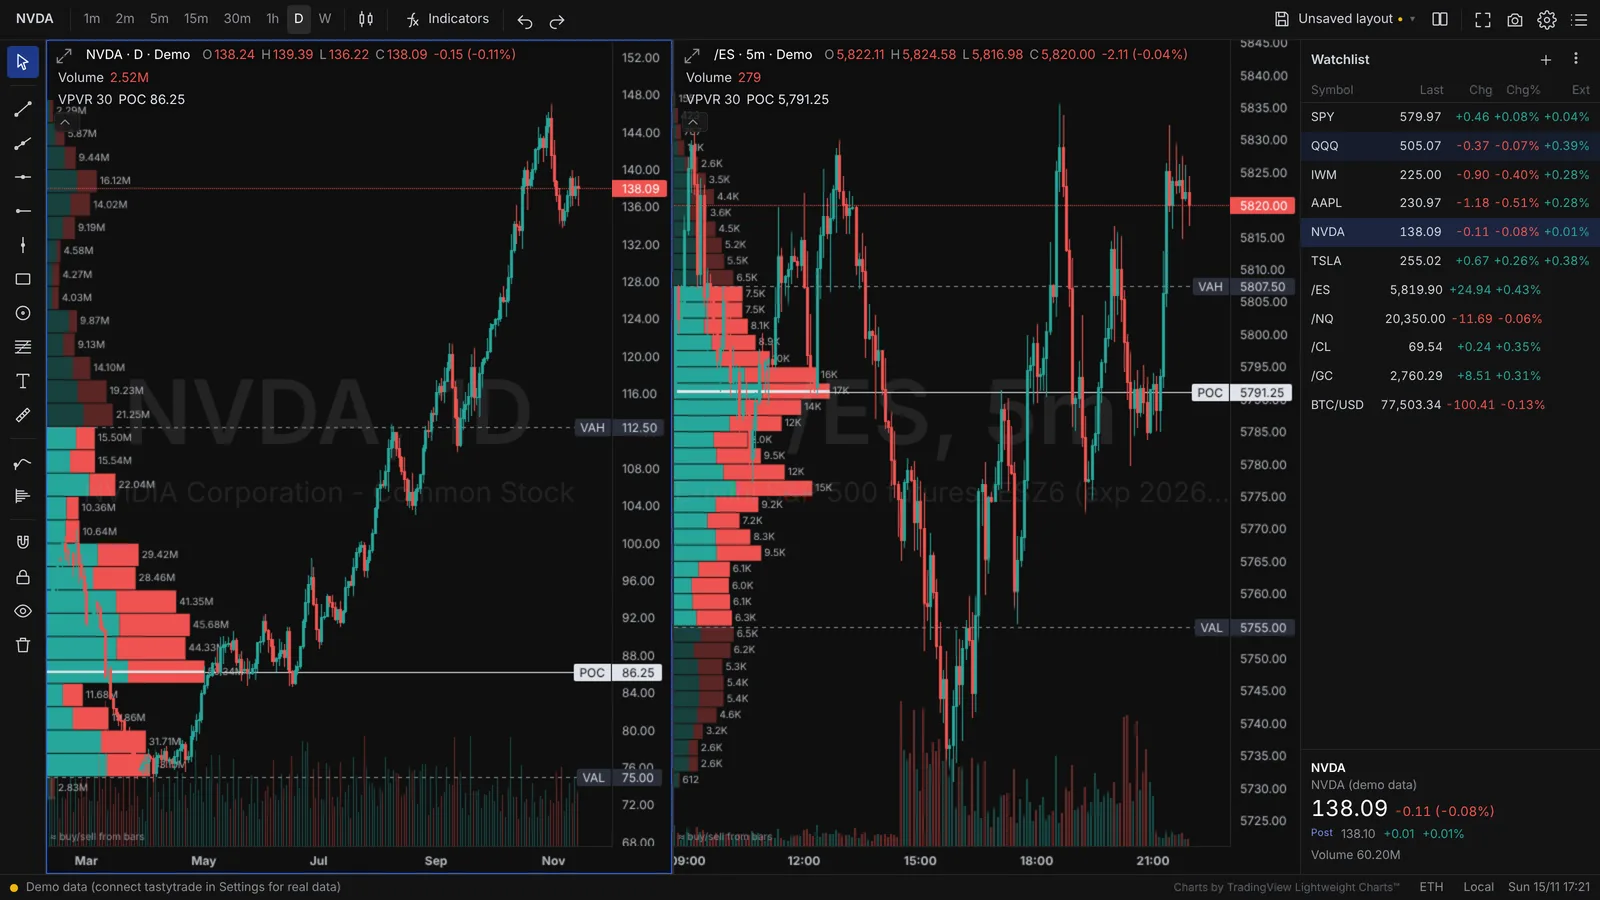
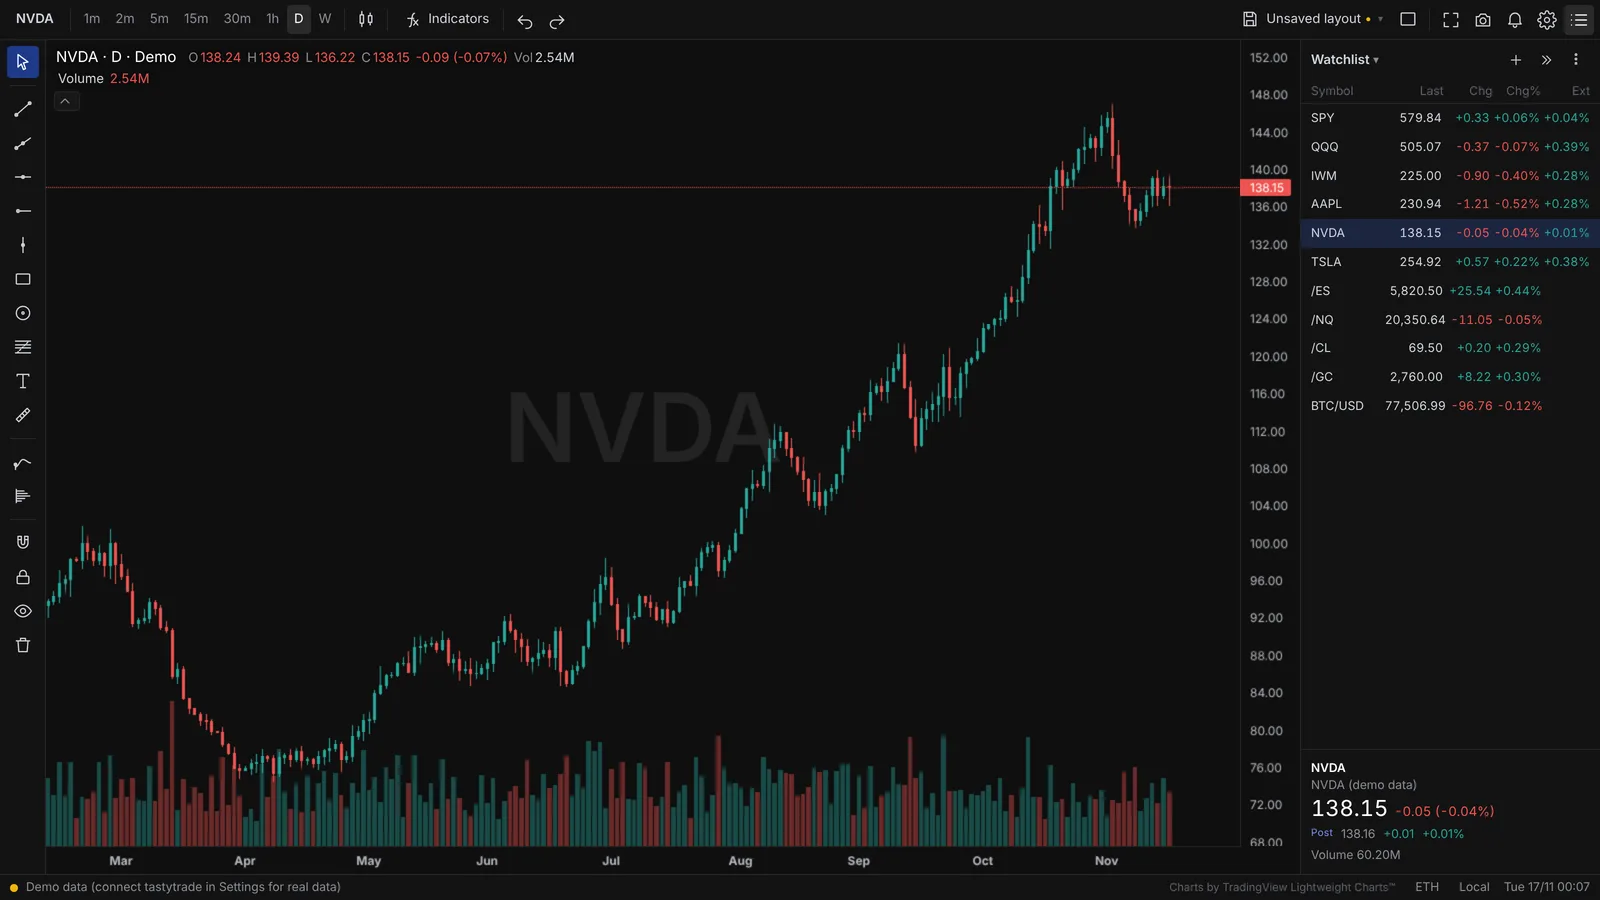
Desktop Charts: extra windows, 12/24-chart layouts, display settings
Bring the project pages up to date with desktop-charts PRs #2 and #3:
extra chart windows, 12- and 24-chart layouts, a hideable watchlist,
chart background and padding settings, the new ticker watermark,
toolbar scroll arrows, installing as an app, and how to stop the server.
Replaces the overview and watermark screenshots and adds a 12-chart
layout and a Display settings screenshot.

Claude-Session: https://claude.ai/code/session_01VvQfTPwUfWJC8Cpg6RXoA1

diff --git a/docs/projects/desktop-charts/features.md b/docs/projects/desktop-charts/features.md
@@ -15,8 +15,9 @@ timeframes), so a 1m chart still has several sessions on a Monday morning.
 
 ## Multi-chart layouts
 
-The layout button (grid icon, top right) splits the screen into 1, 2, 3, 4, 6 or
-8 charts. Each chart keeps its own symbol, timeframe, chart type and indicators.
+The layout button (grid icon, top right) splits the screen into 1, 2, 3, 4, 6,
+8, 12 (6 × 2) or 24 (12 × 2) charts. Each chart keeps its own symbol, timeframe,
+chart type and indicators.
 
 - Click a chart to make it active (blue outline). The top bar, drawing tools and
   watchlist act on the active chart.
@@ -24,7 +25,21 @@ The layout button (grid icon, top right) splits the screen into 1, 2, 3, 4, 6 or
 - ++tab++ / ++shift+tab++ cycles through charts, and ++alt+enter++ (or the arrows
   icon in a chart's legend) maximizes one chart and restores the layout.
 - **Sync** options in the layout menu: symbol, interval, crosshair (on by
-  default) and date range.
+  default) and date range. Date-range sync lines charts up by their left edge,
+  and when the active chart is at the latest bar, every chart ends at its latest
+  bar.
+
+## Extra windows
+
+Open the layout menu, then **Windows → + New window** for another app window,
+for example on a second monitor. Each window has its own charts, layout and
+choice of watchlist (pick it from the watchlist's name). Watchlists, drawings,
+alerts, saved layouts and settings are shared and stay in sync between open
+windows, and only one window fires each alert.
+
+Extra windows reopen with the main window at their last size and position, and
+closing the main window closes the others. Rename or delete them from the same
+menu. The first time, allow pop-ups for `localhost` when your browser asks.
 
 ## Volume profile and TPO
 
@@ -59,6 +74,9 @@ Favorites. Hover a legend row to hide, edit or remove an indicator.
 Bands and the anchor time are in its settings.
 
 ## Drawing tools
+
+The toolbar on the left scrolls without a scrollbar: when the window is too
+short to show every tool, small up and down arrows appear at its ends.
 
 Trend line, ray, horizontal line and ray, vertical line, rectangle, circle, fib
 retracement, text and a measure tool. Click a drawing to select it, drag to move
@@ -100,6 +118,10 @@ Change %, Volume and **Ext**, the pre-market or after-hours change for stocks
 copy, rename it, switch between lists, or delete one (× on hover). For example,
 keep a "Futures" list next to an "Earnings week" list.
 
+**Hide it for more room:** click **»** in the watchlist header, or the list
+button at the top right. The list button or the tab at the right edge of the
+charts brings it back. Each window remembers whether its watchlist is shown.
+
 ## Extended hours
 
 The **RTH / ETH** button in the status bar switches stock charts between regular
@@ -113,11 +135,18 @@ symbol, timeframe and indicators. **Save layout** (++ctrl+s++), **Save as new
 layout**, **Rename**, and a list of saved layouts to switch between. A dot after
 the name means unsaved changes.
 
+## Display settings
+
+**Settings → Display** has the chart **background colour** and the **chart
+padding**: space above and below the candles (in %) and to the right of the
+last bar (in bars). Each has a **Default** button to put it back. The right
+padding is kept when you switch timeframes.
+
 ## Other touches
 
 - **Save image:** the camera icon saves the active chart as a PNG.
-- **Watermark:** a large, faint symbol, timeframe and description behind each
-  chart (Settings → Display).
+- **Watermark:** a large, faint ticker with the company name below it, behind
+  each chart (Settings → Display).
 - **Time zone:** status bar button or Settings.
 - Everything (layout, watchlist, drawings, settings) is remembered in your
   browser for next time.

diff --git a/docs/projects/desktop-charts/screenshots.md b/docs/projects/desktop-charts/screenshots.md
@@ -5,9 +5,17 @@ All screenshots use the built-in demo data, so the prices are synthetic.
 ## Four-chart layout
 
 SPY, QQQ, IWM and AAPL on 5-minute charts, each with a visible-range volume
-profile, POC and value area, next to the watchlist.
+profile, POC and value area, ticker watermarks and shaded extended hours, next
+to the watchlist.
 
-![Four 5-minute charts (SPY, QQQ, IWM, AAPL) with volume profiles and the watchlist](../../assets/images/desktop-charts/overview.webp){ .screenshot loading=lazy }
+![Four 5-minute charts (SPY, QQQ, IWM, AAPL) with volume profiles, ticker watermarks and the watchlist](../../assets/images/desktop-charts/overview.webp){ .screenshot loading=lazy }
+
+## Twelve-chart layout
+
+Twelve 5-minute charts in the 6 × 2 layout, with the watchlist hidden to give
+the charts more room.
+
+![Twelve 5-minute charts in a 6 × 2 layout with volume profiles and the watchlist hidden](../../assets/images/desktop-charts/9-layout-12.webp){ .screenshot loading=lazy }
 
 ## Price alerts
 
@@ -25,9 +33,10 @@ watchlist's Ext column shows the extended-hours change.
 
 ## Watermark
 
-A large, faint symbol, timeframe and description behind each chart.
+A large, faint ticker behind each chart. With live data the company name
+appears below it.
 
-![NVDA daily and /ES 5-minute charts with faint symbol watermarks](../../assets/images/desktop-charts/3-watermark.webp){ .screenshot loading=lazy }
+![NVDA daily chart with a large faint NVDA watermark behind the candles](../../assets/images/desktop-charts/3-watermark.webp){ .screenshot loading=lazy }
 
 ## Saved image
 
@@ -54,3 +63,9 @@ the selected symbol at the bottom.
 Click the watchlist's name to switch lists, or to create, copy or rename one.
 
 ![Watchlist menu with Create new list, Make a copy, Rename, and the lists Earnings week, Futures and Watchlist](../../assets/images/desktop-charts/8-watchlists.webp){ .screenshot loading=lazy width="320" }
+
+## Display settings
+
+Chart background colour and chart padding in Settings → Display.
+
+![Display settings with time zone, extended-hours shading, watermark, grid, chart background colour and chart padding](../../assets/images/desktop-charts/10-display-settings.webp){ .screenshot loading=lazy width="520" }

diff --git a/docs/projects/desktop-charts/index.md b/docs/projects/desktop-charts/index.md
@@ -1,14 +1,14 @@
 # Desktop Charts
 
 A TradingView-style charting app that runs on your own computer and opens in
-your web browser. Up to eight charts on one screen, volume profile and TPO,
+your web browser. Up to 24 charts per window, extra windows for more screens, volume profile and TPO,
 anchored VWAP, drawing tools, price alerts and watchlists, with live market data from your
 tastytrade account. Without an account it runs on demo data, so anyone can try it.
 
 [:fontawesome-brands-github: View on GitHub](https://github.com/trader-larry/desktop-charts){ .md-button .md-button--primary }
 [:material-rocket-launch: Get started](getting-started.md){ .md-button }
 
-![Desktop Charts with four 5-minute charts (SPY, QQQ, IWM and AAPL), each with a visible-range volume profile, and the watchlist on the right](../../assets/images/desktop-charts/overview.webp){ .screenshot }
+![Desktop Charts with four 5-minute charts (SPY, QQQ, IWM and AAPL), each with a visible-range volume profile and a ticker watermark, and the watchlist with its Ext column on the right](../../assets/images/desktop-charts/overview.webp){ .screenshot }
 
 ## Why I built it
 
@@ -33,8 +33,11 @@ machine, and only ever reads market data.
 
 ## Highlights
 
-- **Multi-chart layouts:** 1, 2, 3, 4, 6 or 8 charts, each with its own symbol,
-  timeframe and indicators, with optional symbol, interval, crosshair and date sync.
+- **Multi-chart layouts:** 1, 2, 3, 4, 6, 8, 12 or 24 charts, each with its own
+  symbol, timeframe and indicators, with optional symbol, interval, crosshair and
+  date sync.
+- **Extra windows:** open more chart windows, for example one per monitor,
+  sharing your watchlists, drawings and alerts.
 - **Volume profile and TPO:** visible range, session and fixed range profiles
   with POC, VAH and VAL, plus a TPO (Market Profile) with initial balance.
 - **Anchored VWAP:** click any bar to anchor it, with optional bands.

diff --git a/docs/projects/desktop-charts/getting-started.md b/docs/projects/desktop-charts/getting-started.md
@@ -60,6 +60,13 @@ command window open while you chart.
 !!! tip "Prefer a normal browser tab?"
     Open the start script in a text editor and set `APPWINDOW=0` near the top.
 
+### Optional: install it as an app
+
+Open <http://localhost:8787> in a normal Chrome or Edge tab, then choose
+**Install** from the browser menu. You get a Start-menu shortcut and dark title
+bars, and from then on `start-windows.bat` opens the installed app instead of a
+separate window.
+
 !!! tip "Try it without an account"
     Until you add tastytrade keys, the app runs on generated demo data. To force
     demo data even when keys are set, start it with `node server.js --demo`.
@@ -98,7 +105,9 @@ Click the symbol at the top left of a chart, or just start typing on the chart.
 
 ## 5. Stop it
 
-Close the command window, or press ++ctrl+c++ in it.
+Close the command window, or press ++ctrl+c++ in it (on Windows, answer **Y** if
+it asks "Terminate batch job"). The command window shows the same reminder when
+it starts.
 
 ## Options
 

diff --git a/docs/projects/desktop-charts/faq.md b/docs/projects/desktop-charts/faq.md
@@ -33,6 +33,12 @@
     remembers its size and position. To use a normal tab instead, set
     `APPWINDOW=0` near the top of `start-windows.bat` or `start-mac.command`.
 
+??? question "Can I use it on two monitors?"
+    Yes. Open the layout menu and choose **Windows → + New window**, then drag
+    the new window to the other screen. Each window has its own charts and
+    layout, and they share watchlists, drawings, alerts and settings. If nothing
+    opens, allow pop-ups for `localhost` in your browser.
+
 ??? question "Do price alerts work when the app is closed?"
     No. Alerts are checked by the app while it's open; it can be minimized or in
     the background. Allow notifications when your browser asks, so a Windows or
